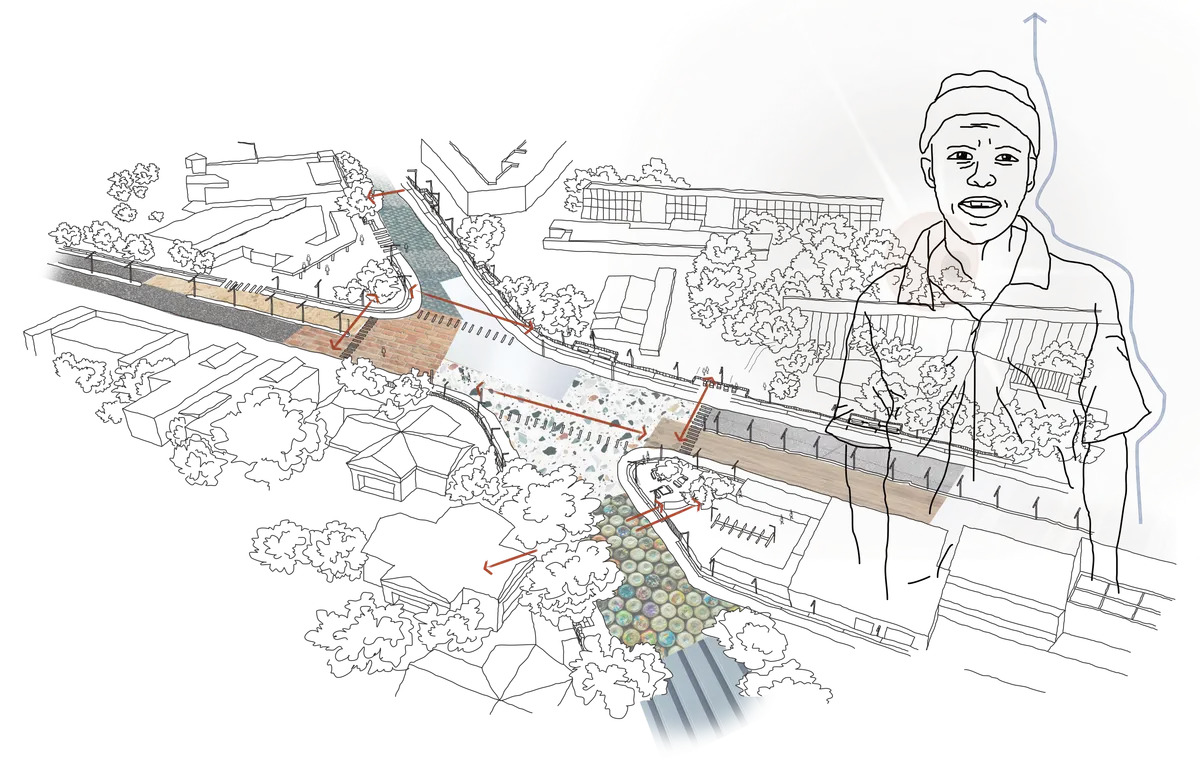
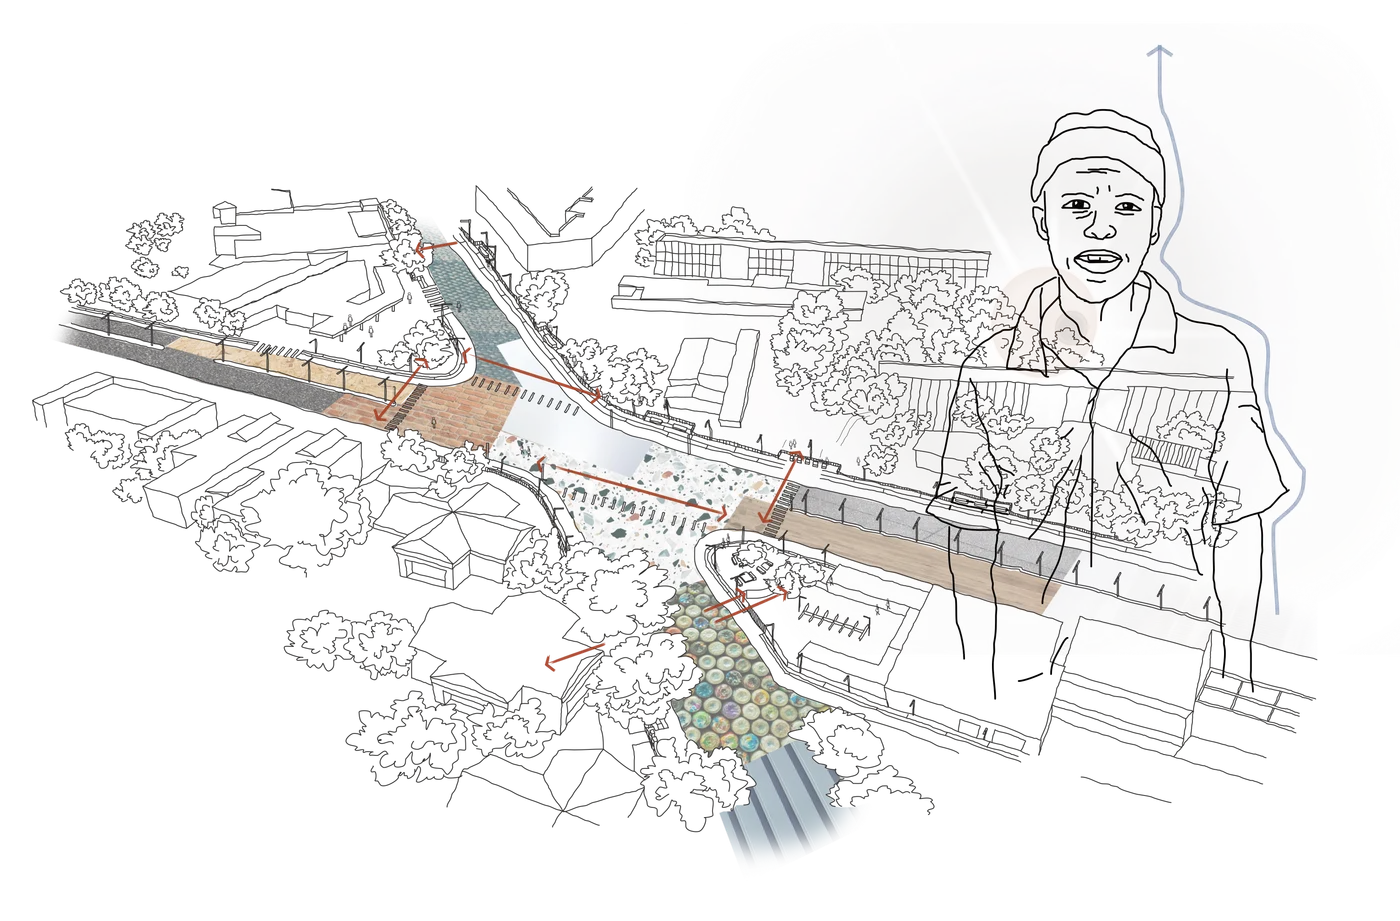
Update Hatfield wa(y)ste cover image and project modal styling
- Replace cover image with new white-background compressed render
- Reduce description text size and add yellow border styling

Changed region(s): [[0.0, 0.0619, 0.9867, 0.9588], [0.8325, 0.0309, 0.8633, 0.0619]]

diff --git a/src/components/ProjectModal.jsx b/src/components/ProjectModal.jsx
@@ -188,7 +188,7 @@ export default function ProjectModal({ project, onClose }) {
             </div>
           )}
 
-          <p className="text-sm md:text-base leading-relaxed text-stone/80 mb-8">
+          <p className="text-[10px] md:text-xs leading-relaxed text-stone/80 mb-8 border border-[#fdbf69] rounded-sm px-3 py-2">
             {project.id === 1 ? (
               <>A luxury spa and wellness center on a private island in the Seychelles, designed in collaboration with Silvio Rech & Lesley Carstens, blending tropical materiality with calm, resort-style interiors across treatment rooms, relaxation areas, a gym, changerooms, thermal suite, and a retail and arrival space.</>
             ) : project.description}

diff --git a/src/data/projects.js b/src/data/projects.js
@@ -67,7 +67,7 @@ const projects = [
     location: 'Hatfield Precinct, South Africa',
     year: '2023',
     area: '~7.7km²',
-    image: '/projects/hatfield-wayste.webp',
+    image: '/projects/hatfield-wayste-1.webp',
     description:
       'A visionary spatial strategy for Hatfield, Pretoria, using food systems as a driver for sustainable urban development. It addresses the area\'s linear waste economy by integrating the Bagarezi (marginalised informal waste pickers) into a recognised, collaborative trash economy through a phased, multi-scalar spatial intervention that weaves collection, sorting and exchange into the urban fabric.',
     tags: ['Future Cities System', 'Phased Urban Strategy', 'Spatial Strategy', 'Waste Systems', 'Circular Economy'],